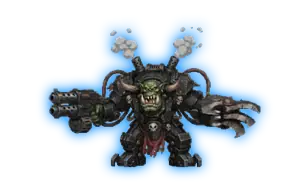
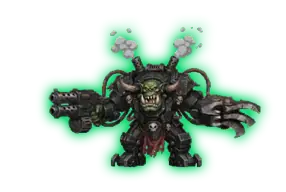
Game: three more raiders (Abaddon from the Vengeful Spirit, Lord of Change from a portal, Tyranid warrior from a hive ship), Ghazghkull's glow turns green; debug buttons 亂1-亂4

Changed region(s): [[0.1399, 0.125, 0.951, 0.9375]]

diff --git a/docs/game.js b/docs/game.js
@@ -152,16 +152,16 @@
   @keyframes wg-hurt { 0%,100% { translate: 0; } 20% { translate: -4px 0; } 40% { translate: 4px 0; } 60% { translate: -3px 0; } 80% { translate: 3px 0; } }
   .wg-skull { z-index: 4; animation: wg-skull 1s ease-out forwards; }
   @keyframes wg-skull { 0% { opacity: 0; transform: translateY(4px) scale(.7); } 15% { opacity: 1; transform: translateY(0) scale(1.05); } 100% { opacity: 0; transform: translateY(-22px) scale(1); } }
-  /* 亂入：網道、碎骨者（藍色光暈畫在圖裡）在畫面中間，蓋在部隊、煙塵上面；碎骨者淡入淡出各 2 秒（網道的時間寫在程式裡） */
+  /* 亂入：門（網道、戰艦、傳送門）和角色（光暈畫在圖裡）在畫面中間，蓋在部隊、煙塵上面；角色淡入淡出各 2 秒（門的時間寫在程式裡） */
   .wg-raid { z-index: 31; opacity: 0; transition: opacity 2s ease-in-out; }
   .wg-raid.on { opacity: 1; }
   .wg-webway { translate: -50% 0; }
   .wg-ghaz { z-index: 32; }
   .wg-float.raid { z-index: 33; } .wg-float.ork { color: #ff3b30; }
-  /* WAAAGH!!：播動圖的期間每 0.9 秒從碎骨者頭上彈出一個紅字，往上跳走淡出（中間的空檔看得到碎骨者） */
+  /* 台詞（WAAAGH!! 等）：播動圖的期間每 0.9 秒從角色頭上彈出一個紅字，往上跳走淡出（中間的空檔看得到角色） */
   .wg-float.waagh { z-index: 33; color: #ff2a1a; animation: wg-waagh .9s ease-out forwards;
     text-shadow: -1px -1px 0 #000, 1px -1px 0 #000, -1px 1px 0 #000, 1px 1px 0 #000, 0 0 8px #ff2a1a; }
-  .wg-float.waagh i { font-style: normal; color: #ff9a1a; }  /* 中間的 A 橘色 */
+  .wg-float.waagh i { font-style: normal; color: var(--hi); }  /* 台詞中間那段字用角色的光暈色（RAIDERS 的 hi） */
   @keyframes wg-waagh { 0% { opacity: 0; transform: translate(-50%, 6px) scale(.6); } 15% { opacity: 1; transform: translate(-50%, 0) scale(1.15); }
     30% { transform: translate(-50%, -6px) scale(1); } 70% { opacity: 1; } 100% { opacity: 0; transform: translate(-50%, -34px) scale(.95); } }
   .wg-dbg { display: flex; gap: 6px; align-items: center; padding: 4px 8px; font-size: 12px; color: var(--muted); }
@@ -308,6 +308,15 @@
     GUO_mini_troops2: 0.823, Emperor_mini_troops2: 0.656,
     GUO_troops2: 0.961, GUO_troops3: 1.144, Emperor_troops2: 1.516, Emperor_troops3: 0.731 };
 
+  // 亂入角色：門、角色、台詞（<i> 包住的字用 hi 色，跟光暈同色）、片長（格數 × 120ms）。
+  // 光暈畫在圖裡；頭在圖上的位置（hx、hy）在 meta.json（scripts/build_game_assets.py 的 RAIDER_HEAD）
+  const RAIDERS = [
+    { gate: 'webway', who: 'Ghazghkull', yell: 'W<i>AAA</i>GH!!', hi: '#1edc78', ms: 33 * 120 },          // 碎骨者：綠
+    { gate: 'VengefulSpirit', who: 'abaddon', yell: 'WWW<i>RRRR</i>YYYY!', hi: '#ff9a1a', ms: 44 * 120 },  // 阿巴頓：紅光、R 橘色
+    { gate: 'portal', who: 'LordofChange', yell: 'KHR<i>AAAA</i>SH!', hi: '#5ab4ff', ms: 31 * 120 },       // 萬變魔君：藍
+    { gate: 'HiveShip', who: 'tyranids', yell: 'G<i>AAA</i>GH!', hi: '#be50ff', ms: 42 * 120 },           // 泰倫武士：紫
+  ];
+
   // ---- 畫面 ----
   const debug = new URLSearchParams(location.search).get('game') === 'debug';
   const el = document.createElement('div');
@@ -330,7 +339,8 @@
     </div>
     <div class="wg-ticker"><span></span></div>
     ${debug ? '<div class="wg-dbg">時間<input type="range" min="470" max="815" step="1" value="600"><span class="t">10:00</span>漲跌%<input type="number" step="0.1" value="0"></div>'
-      + '<div class="wg-dbg">必殺技<button type="button" data-sp="1">滅絕令</button><button type="button" data-sp="0">憎惡鏈枷</button><button type="button" data-raid>亂入</button></div>' : ''}`;
+      + '<div class="wg-dbg">必殺技<button type="button" data-sp="1">滅絕令</button><button type="button" data-sp="0">憎惡鏈枷</button></div>'
+      + `<div class="wg-dbg">亂入${RAIDERS.map((r, i) => `<button type="button" data-raid="${i}">亂${i + 1}</button>`).join('')}</div>` : ''}`;
   const $ = (s) => el.querySelector(s);
   const arena = $('.wg-arena');
   const guo = $('.wg-guo'), emp = $('.wg-emp'), tg = $('.wg-tguo'), te = $('.wg-temp'), cloud = $('.wg-cloud');
@@ -406,7 +416,7 @@
         f.textContent = '';
         f.append(text.slice(0, cut), document.createElement('br'), text.slice(cut));
       }
-    } else if (a.width && !extra.includes('raid')) {  // 亂入的傷害直接跳在被打的神身上（中間是碎骨者）
+    } else if (a.width && !extra.includes('raid')) {  // 亂入的傷害直接跳在被打的神身上（中間是亂入角色）
       const lo = guo.getBoundingClientRect().right - a.left + 4;
       const hi = emp.getBoundingClientRect().left - a.left - 4;
       const k = extra.includes('ult') ? 1.65 : crit ? 1.5 : 1.1;
@@ -673,13 +683,11 @@
     hits(350, [420, 650, 880]);
     setTimeout(() => { img.remove(); if (url?.startsWith('blob:')) URL.revokeObjectURL(url); }, 350 + 1400);
   }
-  // 亂入：碎骨者從網道殺出來。網道淡入 2 秒 → 碎骨者（第一格）淡入 2 秒 → 播動圖（33 格 × 120ms＝3.96 秒），
-  // 頭上一直彈出紅色 WAAAGH!!，兩尊神輪流閃白、跳傷害、卡片震 → 停在最後一格淡出 2 秒 → 網道淡出 1 秒。
-  // 期間兩尊神暫停出手、停住不動（換靜止圖）。動圖亂入時才下載（淡入的 4 秒內就下載好），每次用新的 blob 網址從第一格播
-  const RAID_FADE = 2000, WEB_IN = 2000, WEB_OUT = 1000, GHAZ_MS = 33 * 120;  // 碎骨者淡入淡出、網道淡入、網道淡出（ms）
-  const GHAZ_CX = 0.44;  // 碎骨者的頭在圖寬的位置（槍和爪子讓人物不在圖片正中間）：對齊網道中線
+  // 亂入：角色從門（網道、戰艦、傳送門）殺出來。門淡入 2 秒 → 角色（第一格）淡入 2 秒 → 播動圖，
+  // 頭上一直彈出台詞，兩尊神輪流閃白、跳傷害、卡片震 → 停在最後一格淡出 2 秒 → 門淡出 1 秒。
+  // 期間兩尊神暫停出手、停住不動（換靜止圖）。圖亂入時才下載（動圖在淡入的 4 秒內就下載好），每次用新的 blob 網址從第一格播
+  const RAID_FADE = 2000, WEB_IN = 2000, WEB_OUT = 1000;  // 角色淡入淡出、門淡入、門淡出（ms）
   let raid = 0;  // 進行中的亂入編號（0＝沒有）；收盤時清掉，已經排好的計時器看到編號不對就不做
-  for (const n of ['webway', 'Ghazghkull_still', 'Ghazghkull_end']) new Image().src = `${A}${n}.webp`;
   // 兩尊神動圖 ↔ 靜止圖交叉淡化 0.5 秒（網頁上的動圖沒辦法真的暫停，直接換圖會跳一下）：
   // 同位置疊一張要換成的圖淡入，淡完才真的換圖（draw）、拿掉疊的那張
   function fadeGods(still) {
@@ -702,16 +710,18 @@
     arena.querySelectorAll('.wg-raid, .wg-float.waagh').forEach((x) => x.remove());
     fadeGods(false);  // 兩尊神淡回動圖
   }
-  function warp() {
+  function warp(k = Math.floor(Math.random() * RAIDERS.length)) {
     const a = arena.getBoundingClientRect();
     if (raid || !a.width) return;
     const id = raid = Date.now();
     fadeGods(true);  // 兩尊神淡成靜止圖
+    const R = RAIDERS[k];
     const later = (ms, f) => setTimeout(() => { if (raid === id) f(); }, ms);
-    const blob = fetch(`${A}Ghazghkull.webp`).then((r) => r.blob()).catch(() => null);
+    const blob = fetch(`${A}${R.who}.webp`).then((r) => r.blob()).catch(() => null);
+    new Image().src = `${A}${R.who}_end.webp`;
     const ww = document.createElement('img');
     ww.className = 'wg-raid wg-webway';
-    ww.src = `${A}webway.webp`;
+    ww.src = `${A}${R.gate}.webp`;
     // 只佔上半部（神祇那一層），不疊到下面的亞空間條
     const wh = a.height * 0.68 - 4, wtop = 2;
     ww.style.height = `${wh}px`;
@@ -721,39 +731,40 @@
     void ww.offsetWidth;
     ww.style.transitionDuration = `${WEB_IN}ms`;
     ww.classList.add('on');
-    // 碎骨者：撐滿上半部（圖上下各有 16/192 的光暈留白，人物腳底踩在亞空間條上緣），頭對齊網道中線，可以蓋過網道
-    const gm = meta.Ghazghkull ?? { w: 286, h: 192 };
+    // 角色：撐滿上半部（圖上下各有 16px 的光暈留白，人物腳底踩在亞空間條上緣），頭對齊門的中線，可以蓋過門
+    const gm = meta[R.who] ?? { w: 290, h: 192, hx: 0.45, hy: 0.3 };
     const gh = a.height * 0.68 * 1.08, gw = (gh * gm.w) / gm.h;
-    const gtop = a.height * 0.68 - gh * (1 - 16 / 192);
+    const gtop = a.height * 0.68 - gh * (1 - 16 / gm.h);
     const gz = document.createElement('img');
     gz.className = 'wg-raid wg-ghaz';
-    gz.src = `${A}Ghazghkull_still.webp`;
+    gz.src = `${A}${R.who}_still.webp`;
     gz.style.height = `${gh}px`;
-    gz.style.left = `${a.width / 2 - gw * GHAZ_CX}px`;
+    gz.style.left = `${a.width / 2 - gw * gm.hx}px`;
     gz.style.top = `${gtop}px`;
     later(WEB_IN, () => { arena.appendChild(gz); void gz.offsetWidth; gz.classList.add('on'); });
     later(WEB_IN + RAID_FADE, () => blob.then((b) => {
       if (raid !== id) return;
-      const url = b ? URL.createObjectURL(b) : `${A}Ghazghkull.webp?${Date.now()}`;
+      const url = b ? URL.createObjectURL(b) : `${A}${R.who}.webp?${Date.now()}`;
       gz.src = url;
       gz.decode().catch(() => {}).then(() => { if (raid === id) play(url); });
     }));
     function play(url) {
       const fs = Math.round(a.height * 0.18);
-      for (let t = 0; t < GHAZ_MS - 500; t += 900) later(t, () => {
+      for (let t = 0; t < R.ms - 500; t += 900) later(t, () => {
         const yell = document.createElement('div');
         yell.className = 'wg-float waagh';
-        yell.innerHTML = 'W<i>AAA</i>GH!!';
+        yell.innerHTML = R.yell;
+        yell.style.setProperty('--hi', R.hi);
         yell.style.fontSize = `${fs}px`;
         yell.style.left = '50%';
-        yell.style.top = `${Math.max(0, gtop + gh * 0.3 - fs)}px`;  // 頭頂（圖高 30% 處）上面
+        yell.style.top = `${Math.max(0, gtop + gh * gm.hy - fs)}px`;  // 頭頂上面
         arena.appendChild(yell);
         setTimeout(() => yell.remove(), 950);
       });
       // 播的期間兩尊神輪流挨打：閃白、冒骷髏、卡片震、跳紅色傷害（每 0.36 秒一下）
       const ar = arena.getBoundingClientRect();
       const mid = (g) => { const r = g.getBoundingClientRect(); return ((r.left + r.right) / 2 - ar.left) / ar.width * 100; };
-      for (let t = 150, i = 0; t < GHAZ_MS - 200; t += 360, i++) later(t, () => {
+      for (let t = 150, i = 0; t < R.ms - 200; t += 360, i++) later(t, () => {
         const god = i % 2 ? emp : guo;
         const to = god.getBoundingClientRect();
         god.classList.remove('wg-flashw', 'wg-hurt', 'wg-hurt-big', 'wg-hurt-claw'); void god.offsetWidth; god.classList.add('wg-flashw');
@@ -768,13 +779,13 @@
         setTimeout(() => sk.remove(), 1100);
         float(`${300 + Math.round(Math.random() * 600)}!`, 'ork', true, mid(god) + (Math.random() - 0.5) * 8, ' raid');
       });
-      later(GHAZ_MS, () => {
-        gz.src = `${A}Ghazghkull_end.webp`;
+      later(R.ms, () => {
+        gz.src = `${A}${R.who}_end.webp`;
         if (url.startsWith('blob:')) setTimeout(() => URL.revokeObjectURL(url), 1000);
         gz.classList.remove('on');
       });
-      later(GHAZ_MS + RAID_FADE, () => { gz.remove(); ww.style.transitionDuration = `${WEB_OUT}ms`; ww.classList.remove('on'); });
-      later(GHAZ_MS + RAID_FADE + WEB_OUT, endRaid);
+      later(R.ms + RAID_FADE, () => { gz.remove(); ww.style.transitionDuration = `${WEB_OUT}ms`; ww.classList.remove('on'); });
+      later(R.ms + RAID_FADE + WEB_OUT, endRaid);
     }
   }
   function attack(bull, crit, onHit) {
@@ -1018,7 +1029,7 @@
     const eL = ((emp.getBoundingClientRect().left - ar.left) / ar.width) * 100;
     fireSpecial(bull, 150 + Math.round(Math.random() * 150), bull ? gR + 5 : eL - 5);
   }));
-  if (debug) el.querySelector('.wg-dbg button[data-raid]').addEventListener('click', () => warp());
+  if (debug) el.querySelectorAll('.wg-dbg button[data-raid]').forEach((b) => b.addEventListener('click', () => warp(Number(b.dataset.raid))));
   if (debug) el.querySelectorAll('.wg-dbg input').forEach((i) => i.addEventListener('input', () => {
     $('.wg-dbg .t').textContent = now().hhmm; draw(true);
   }));

diff --git a/docs/index.html b/docs/index.html
@@ -930,7 +930,7 @@
 
   // 小遊戲：第一次要用時才載入，之後每次重畫把同一個遊戲元素搬回原位。主帳號是戰鎚（docs/game.js），
   // love 帳號是自己的遊戲（docs/love.js、素材在 docs/love/）：只載入登入帳號的那一套，另一套的檔案完全不抓
-  const GAMES = { owner: ['game.js?v=93', 'WarGame'], love: ['love.js?v=17', 'LoveGame'] };
+  const GAMES = { owner: ['game.js?v=94', 'WarGame'], love: ['love.js?v=17', 'LoveGame'] };
   const gameLoading = {};
   function attachGame(d) {
     const [src, name] = GAMES[window.PrivateVault?.profile?.()] ?? GAMES.owner;

diff --git a/scripts/build_game_assets.py b/scripts/build_game_assets.py
@@ -21,7 +21,8 @@ SIZES = {'Emperor': 240, 'GUO': 240, 'fight-cloud': 200, 'Emperor_win': 240, 'Em
          'Emperor_attack2_2': 200, 'GUO_attack2_2': 160, 'day_off': 160, 'heart': None,
          'Emperor_attack_sp': None, 'GUO_attack_sp': None, 'GUO_mini_troops': 96, 'Emperor_mini_troops': 96,
          'GUO_troops2': 160, 'GUO_troops3': 160, 'Emperor_troops2': 160, 'Emperor_troops3': 160,
-         'GUO_mini_troops2': 96, 'Emperor_mini_troops2': 96, 'webway': None, 'Ghazghkull': 160}
+         'GUO_mini_troops2': 96, 'Emperor_mini_troops2': 96, 'webway': None, 'Ghazghkull': 160,
+         'VengefulSpirit': None, 'abaddon': 160, 'portal': None, 'LordofChange': 160, 'HiveShip': None, 'tyranids': 160}
 # 神祇的光暈直接畫進圖裡（以前是網頁上 CSS drop-shadow，動圖每換一格瀏覽器就要重算一次，吃 CPU）。
 # 四邊各留 GLOW_PAD px（圖高 240 的 10%）給光暈；網頁那邊把神祇放大 1.2 倍、往下移 10% 抵銷，人物大小位置不變
 GLOW = {'Emperor': (255, 215, 0), 'Emperor_win': (255, 215, 0), 'Emperor_loss': (255, 215, 0),
@@ -29,9 +30,14 @@ GLOW = {'Emperor': (255, 215, 0), 'Emperor_win': (255, 215, 0), 'Emperor_loss': 
 GLOW_PAD, GLOW_SIGMA, GLOW_GAIN = 24, 10, 1.7  # 手機上神祇約 73px 高：σ 10、加強 1.7 倍，跟原本 CSS 的 drop-shadow(0 0 6px) 差不多
 
 
-# 亂入的網道和碎骨者：外圈一層網道漩渦的藍色光暈（四邊留 16px）
-WARP = {'webway', 'Ghazghkull'}
-WARP_BLUE = (90, 180, 255)
+# 亂入：登場的門（網道、復仇之魂號、傳送門、蟲巢艦）和角色，外圈一層光暈（四邊留 16px）。
+# 碎骨者是綠色，但比大不淨者的純綠 (0, 255, 0) 偏藍一點才分得出來
+WARP = {'webway': (90, 180, 255), 'Ghazghkull': (30, 220, 120),
+        'VengefulSpirit': (255, 40, 40), 'abaddon': (255, 40, 40),
+        'portal': (90, 180, 255), 'LordofChange': (90, 180, 255),
+        'HiveShip': (190, 80, 255), 'tyranids': (190, 80, 255)}
+# 亂入角色的頭（原檔像素座標：頭的水平中線、台詞冒出來的高度）：網頁用來把頭對齊門的中線、台詞從頭上冒出
+RAIDER_HEAD = {'Ghazghkull': (195, 70), 'abaddon': (190, 60), 'LordofChange': (168, 105), 'tyranids': (178, 30)}
 
 
 # 休假吃飯圖：薄薄一層金光（原本 CSS 的 drop-shadow 1px＋3px），四邊各留 8px（圖高 160 的 5%）
@@ -53,8 +59,8 @@ def glow(frame, color, pad=GLOW_PAD, layers=((GLOW_SIGMA, GLOW_GAIN),)):
 
 # 必殺技動圖：每一格都留、每格 70ms（網頁照這個節奏對傷害時間點）
 SP_FRAME_MS = 70
-# 碎骨者動圖：原檔就是 33 格、每格 120ms（Pillow 讀不到這個檔的每格時間），每一格都留；網頁照 3.96 秒排傷害
-GHAZ_FRAME_MS = 120
+# 亂入角色動圖：原檔每格 120ms（Pillow 讀不到這些檔的每格時間），每一格都留；網頁照片長（meta.json 的 ms）排傷害
+RAIDER_FRAME_MS = 120
 
 
 def trim_box(im):
@@ -86,20 +92,20 @@ def build(name, h, OUT):
     # 神祇：裁、縮好之後才加光暈（光暈的大小才跟顯示大小對得上）
     finish = ((lambda f: glow(f, GLOW[name])) if name in GLOW
               else (lambda f: glow(f, (255, 215, 0), DAYOFF_PAD, ((1, 2.0), (3, 1.4)))) if name == 'day_off'
-              else (lambda f: glow(f, WARP_BLUE, 16, ((6, 1.8),))) if name in WARP
+              else (lambda f: glow(f, WARP[name], 16, ((6, 1.8),))) if name in WARP
               else (lambda f: f))
     if n > 1:
         frames, durs = [], []
         sp = name.endswith('_sp')
-        ghaz = name == 'Ghazghkull'
-        for i in range(0, n, 1 if sp or ghaz else 2):  # 20 fps -> 10 fps（必殺技、碎骨者不減格）
+        raider = name in RAIDER_HEAD
+        for i in range(0, n, 1 if sp or raider else 2):  # 20 fps -> 10 fps（必殺技、亂入角色不減格）
             im.seek(i)
             frames.append(finish(fit(crop(im.convert('RGBA')), h)))
-            durs.append(SP_FRAME_MS if sp else GHAZ_FRAME_MS if ghaz else (im.info.get('duration') or 50) * 2)
+            durs.append(SP_FRAME_MS if sp else RAIDER_FRAME_MS if raider else (im.info.get('duration') or 50) * 2)
         frames[0].save(OUT / f'{name}.webp', save_all=True, append_images=frames[1:], duration=durs, loop=0,
                        quality=70, method=6, lossless=False)
         frames[0].save(OUT / f'{name}_still.webp', quality=75, method=6)
-        if ghaz:  # 播完停在最後一格淡出
+        if raider:  # 播完停在最後一格淡出
             frames[-1].save(OUT / f'{name}_end.webp', quality=75, method=6)
     else:
         finish(fit(crop(im.convert('RGBA' if im.mode in ('RGBA', 'P') else 'RGB')), h)).save(OUT / f'{name}.webp', quality=78, method=6)
@@ -125,9 +131,17 @@ for name in ('Emperor', 'GUO'):
         col = sum(1 for y in range(h) if a.getpixel((x, y)) > 8)
         tot += col; sx += col * x
     meta[name] = {'w': w, 'h': h, 'cx': round(sx / tot / w, 4)}
-for name in ('Emperor_win', 'GUO_loss', 'win', 'vs', 'webway', 'Ghazghkull'):
+for name in ('Emperor_win', 'GUO_loss', 'win', 'vs', 'webway', 'VengefulSpirit', 'portal', 'HiveShip'):
     w, h = Image.open(OUT / f'{name}.webp').size
     meta[name] = {'w': w, 'h': h}
+# 亂入角色：寬高、頭在圖上的位置（hx、hy，0～1，含光暈留白）、片長（ms）
+for name, (x, y) in RAIDER_HEAD.items():
+    src = Image.open(SRC / f'{name}.webp')
+    box = trim_box(src)
+    k = min(1, SIZES[name] / (box[3] - box[1]))
+    w, h = Image.open(OUT / f'{name}.webp').size
+    meta[name] = {'w': w, 'h': h, 'hx': round(((x - box[0]) * k + 16) / w, 3), 'hy': round(((y - box[1]) * k + 16) / h, 3),
+                  'ms': src.n_frames * RAIDER_FRAME_MS}
 (OUT / 'meta.json').write_text(json.dumps(meta), encoding='utf-8')
 print(meta)
 print('total', sum(p.stat().st_size for p in OUT.glob('*.webp')) // 1024, 'KB')
